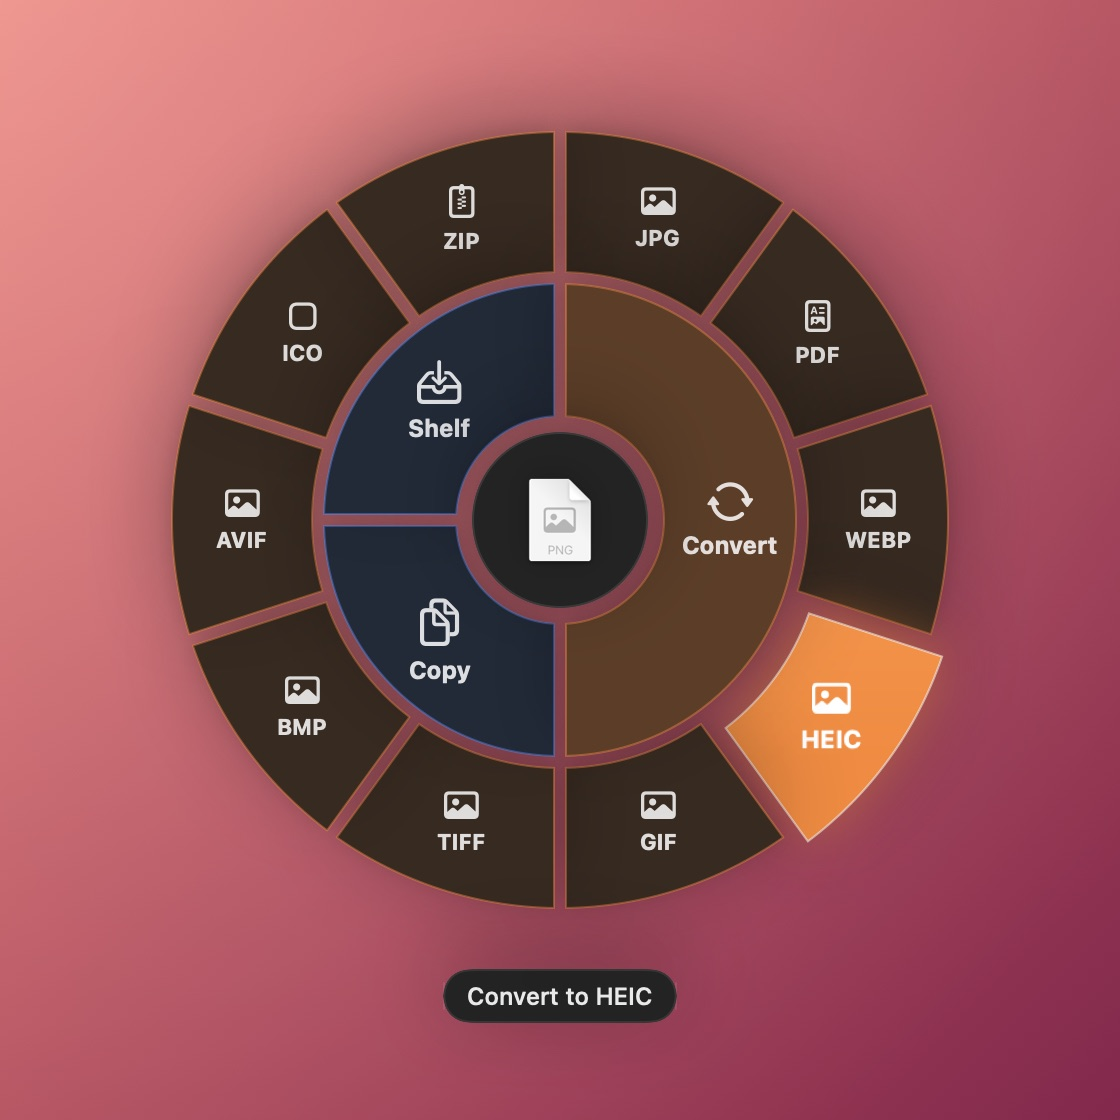
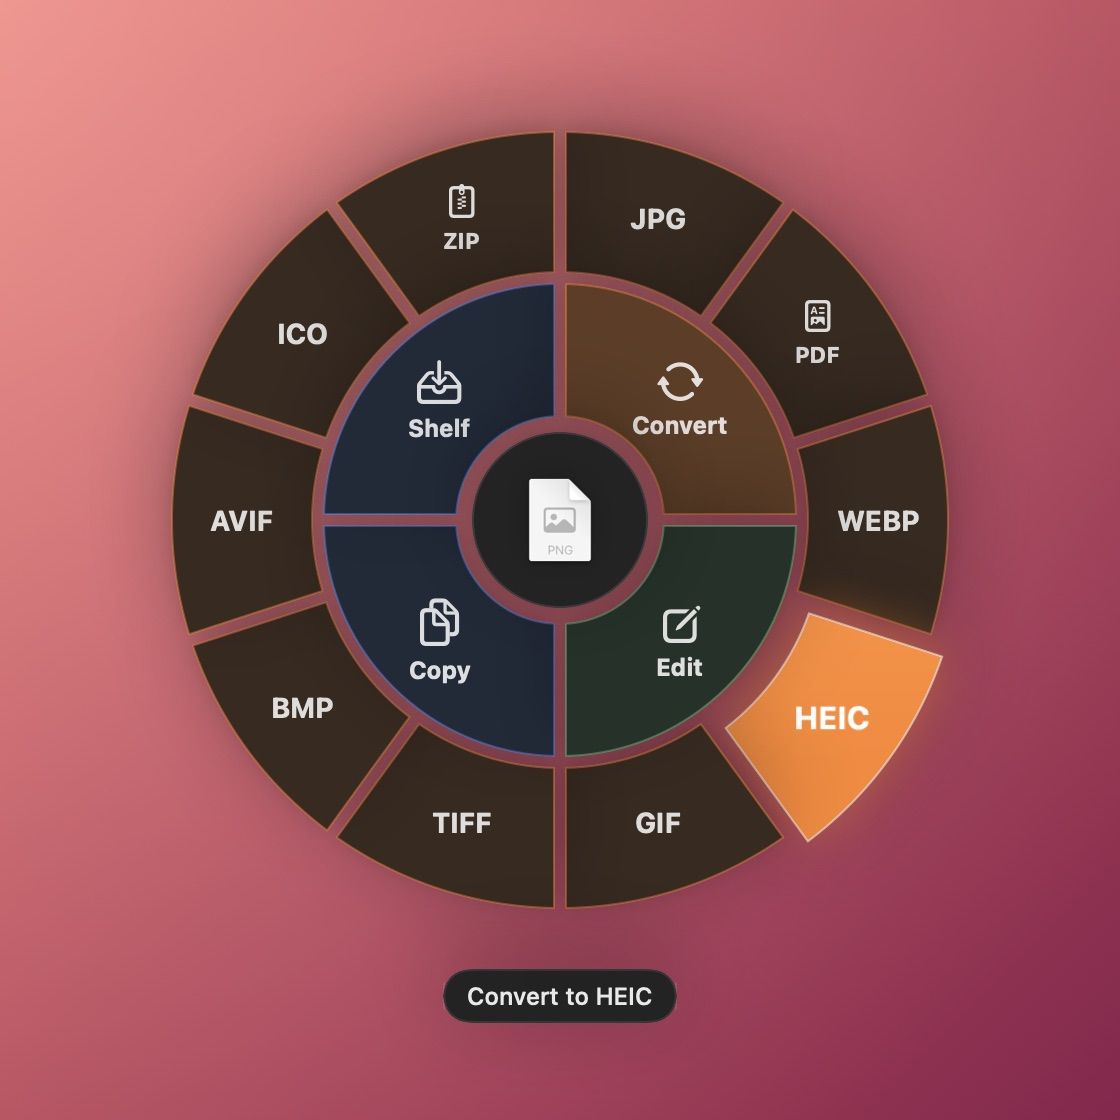
Screenshots for 1.2.0, 10-step shake slider, resizable Settings
- scripts/screenshots: new hero (Edit open), radial-edit, radial-merge,
  donate; Shelf with a selection; full-height Settings. README and
  README.vi use them.
- Shake sensitivity is a 1–10 slider on both platforms (old Easy/Normal/
  Firm map to 2/5/8).
- Settings windows are resizable and scroll, capped to the screen height.
- macOS Shelf: the title no longer wraps when the header is crowded.

diff --git a/scripts/screenshots.swift b/scripts/screenshots.swift
@@ -36,8 +36,17 @@ m2.expanded = .convert; m2.showAll = true; m2.hoveredSide = .convert; m2.hovered
 // Menu tròn: rê vào Copy
 let m3 = RadialModel(files: [sample("Report Q3.docx"), sample("Vacation photo.png")])
 m3.hoveredSide = .clipboard; m3.hoveredItem = 0
+// Menu tròn: nửa Chỉnh sửa của ảnh JPG, rê vào "< 1 MB"
+let m4 = RadialModel(files: [sample("Beach day.jpg")])
+m4.expanded = .edit; m4.hoveredSide = .edit
+m4.hoveredItem = m4.editItems.firstIndex { $0.target == .convert(.shrink) }
+// Menu tròn: nhiều file, Chỉnh sửa -> Gộp PDF
+let m5 = RadialModel(files: [sample("Beach day.jpg"), sample("Vacation photo.png"), sample("Screenshot.png")])
+m5.expanded = .edit; m5.hoveredSide = .edit; m5.hoveredItem = 0
 
-ShelfController.shared.model.add([sample("Vacation photo.png"), sample("Report Q3.docx"), sample("Budget 2026.xlsx"), sample("Pitch deck.pptx"), sample("Holiday.zip")])
+let shelfFiles = [sample("Vacation photo.png"), sample("Beach day.jpg"), sample("Report Q3.docx"), sample("Budget 2026.xlsx"), sample("Pitch deck.pptx"), sample("Holiday.zip")]
+ShelfController.shared.model.add(shelfFiles)
+ShelfController.shared.model.selection = [shelfFiles[0], shelfFiles[1]]   // đang chọn 2 file để kéo cùng lúc
 
 // Nền gradient cùng tông logo
 struct Backdrop<C: View>: View {
@@ -60,7 +69,7 @@ struct Hero: View {
                 Image(nsImage: NSApp.applicationIconImage).resizable().frame(width: 230, height: 230)
                     .shadow(color: .black.opacity(0.25), radius: 20, y: 8)
                 Text("Drag. Shake. Convert.").font(.system(size: 46, weight: .heavy, design: .rounded)).foregroundStyle(.white)
-                Text("A tiny menu that pops up right where you drag a file.\nConvert, extract, copy or shelve it in one move.")
+                Text("A tiny menu that pops up right where you drag a file.\nConvert, edit, copy or shelve it in one move.")
                     .font(.system(size: 21, weight: .medium, design: .rounded)).foregroundStyle(.white.opacity(0.88))
                 Text("macOS · Windows · Free & open source").font(.system(size: 17, weight: .semibold, design: .rounded))
                     .foregroundStyle(.white).padding(.horizontal, 14).padding(.vertical, 7)
@@ -77,12 +86,15 @@ func onBackdrop<V: View>(_ v: V) -> some View {
 }
 
 let steps: [(@escaping () -> Void) -> Void] = [
-    { n in snap("hero", Hero(model: m1), size: CGSize(width: 1280, height: 640), then: n) },
+    { n in snap("hero", Hero(model: m4), size: CGSize(width: 1280, height: 640), then: n) },
     { n in snap("radial-convert", onBackdrop(RadialMenuView(model: m1).frame(width: 440, height: 480)), size: CGSize(width: 560, height: 560), then: n) },
     { n in snap("radial-all-formats", onBackdrop(RadialMenuView(model: m2).frame(width: 440, height: 480)), size: CGSize(width: 560, height: 560), then: n) },
     { n in snap("radial-copy", onBackdrop(RadialMenuView(model: m3).frame(width: 440, height: 480)), size: CGSize(width: 560, height: 560), then: n) },
+    { n in snap("radial-edit", onBackdrop(RadialMenuView(model: m4).frame(width: 440, height: 480)), size: CGSize(width: 560, height: 560), then: n) },
+    { n in snap("radial-merge", onBackdrop(RadialMenuView(model: m5).frame(width: 440, height: 480)), size: CGSize(width: 560, height: 560), then: n) },
+    { n in snap("donate", onBackdrop(DonateView().background(Color(nsColor: .windowBackgroundColor), in: RoundedRectangle(cornerRadius: 14))), size: CGSize(width: 440, height: 680), then: n) },
     { n in snap("shelf", onBackdrop(ShelfView(model: ShelfController.shared.model, onClose: {}).fixedSize()), size: CGSize(width: 420, height: 440), then: n) },
-    { n in snap("settings", onBackdrop(SettingsView().frame(height: 1000).background(Color(nsColor: .windowBackgroundColor), in: RoundedRectangle(cornerRadius: 14))).frame(width: 540), size: CGSize(width: 540, height: 1080), then: n) },
+    { n in snap("settings", onBackdrop(SettingsView().frame(width: 460, height: 1100).background(Color(nsColor: .windowBackgroundColor), in: RoundedRectangle(cornerRadius: 14))).frame(width: 540), size: CGSize(width: 540, height: 1180), then: n) },
 ]
 func run(_ i: Int) { if i < steps.count { let step = steps[i]; step({ run(i + 1) }) } else { exit(0) } }
 DispatchQueue.main.async { run(0) }

diff --git a/Sources/SettingsWindow.swift b/Sources/SettingsWindow.swift
@@ -11,9 +11,12 @@ final class SettingsWindowController {
     func show() {
         if window == nil {
             let host = NSHostingView(rootView: SettingsView())
-            let w = NSWindow(contentRect: NSRect(x: 0, y: 0, width: 460, height: 700),
-                             styleMask: [.titled, .closable],
+            // Kéo đổi kích thước được; không cao hơn màn hình (máy màn nhỏ vẫn cuộn xem hết)
+            let maxH = (NSScreen.main?.visibleFrame.height ?? 800) - 60
+            let w = NSWindow(contentRect: NSRect(x: 0, y: 0, width: 460, height: min(700, maxH)),
+                             styleMask: [.titled, .closable, .resizable],
                              backing: .buffered, defer: false)
+            w.contentMinSize = NSSize(width: 420, height: 360)
             w.title = L("SATF Settings", "Cài đặt SATF")
             w.contentView = host
             w.isReleasedWhenClosed = false
@@ -29,6 +32,8 @@ final class SettingsWindowController {
 struct SettingsView: View {
     @ObservedObject private var settings = Settings.shared
     @State private var launchAtLogin = SMAppService.mainApp.status == .enabled
+    /// Chiều cao cửa sổ; ảnh chụp cho README dùng giá trị lớn hơn để thấy hết các mục
+    var height: CGFloat = 700
 
     var body: some View {
         Form {
@@ -68,12 +73,22 @@ struct SettingsView: View {
                 }
                 .disabled(!settings.shakeEnabled)
 
-                Picker(L("Sensitivity", "Độ nhạy"), selection: $settings.sensitivity) {
-                    ForEach(Sensitivity.allCases) { s in
-                        Text(s.label).tag(s)
+                // 10 mức: kéo sang trái = lắc nhẹ là mở, sang phải = phải lắc mạnh (đỡ mở nhầm)
+                VStack(alignment: .leading, spacing: 4) {
+                    HStack {
+                        Text(L("Sensitivity", "Độ nhạy"))
+                        Spacer()
+                        Text("\(settings.shakeLevel)/10").monospacedDigit().foregroundStyle(.secondary)
+                    }
+                    Slider(value: Binding(get: { Double(settings.shakeLevel) }, set: { settings.shakeLevel = Int($0.rounded()) }),
+                           in: Double(ShakeLevel.range.lowerBound)...Double(ShakeLevel.range.upperBound), step: 1) {
+                        EmptyView()
+                    } minimumValueLabel: {
+                        Text(L("Light", "Nhẹ")).font(.caption).foregroundStyle(.secondary)
+                    } maximumValueLabel: {
+                        Text(L("Firm", "Mạnh")).font(.caption).foregroundStyle(.secondary)
                     }
                 }
-                .pickerStyle(.segmented)
                 .disabled(!settings.shakeEnabled)
             } header: {
                 Text(L("Shake", "Lắc chuột"))
@@ -159,7 +174,7 @@ struct SettingsView: View {
             }
         }
         .formStyle(.grouped)
-        .frame(width: 460, height: 700)
+        .frame(minWidth: 420, idealWidth: 460, maxWidth: .infinity, minHeight: 360, idealHeight: height, maxHeight: .infinity)
     }
 }
 

diff --git a/Sources/Settings.swift b/Sources/Settings.swift
@@ -38,36 +38,14 @@ enum ModifierChoice: String, CaseIterable, Identifiable {
     }
 }
 
-enum Sensitivity: String, CaseIterable, Identifiable {
-    case easy, normal, hard
-
-    var id: String { rawValue }
-
-    var label: String {
-        switch self {
-        case .easy: return L("Easy", "Nhạy")
-        case .normal: return L("Normal", "Vừa")
-        case .hard: return L("Firm", "Khó")
-        }
-    }
-
-    /// Mỗi nhịp lắc phải đi xa tối thiểu (point)
-    var minSwing: CGFloat {
-        switch self {
-        case .easy: return 25
-        case .normal: return 35
-        case .hard: return 50
-        }
-    }
-
+/// Độ nhạy lắc: 1 = nhạy nhất (lắc nhẹ là mở menu), 10 = phải lắc mạnh. Cùng công thức với bản Windows.
+enum ShakeLevel {
+    static let range = 1...10
+    static let `default` = 5
+    /// Mỗi nhịp lắc phải đi xa tối thiểu (point): 20 … 56
+    static func minSwing(_ level: Int) -> CGFloat { CGFloat(20 + (level - 1) * 4) }
     /// Số lần đổi chiều cần có
-    var reversals: Int {
-        switch self {
-        case .easy: return 3
-        case .normal: return 4
-        case .hard: return 5
-        }
-    }
+    static func reversals(_ level: Int) -> Int { level <= 3 ? 3 : level <= 7 ? 4 : 5 }
 }
 
 /// Mức nén ảnh của nút "Nén ảnh"
@@ -122,8 +100,8 @@ final class Settings: ObservableObject {
     @Published var shakeModifier: ModifierChoice {
         didSet { defaults.set(shakeModifier.rawValue, forKey: "shakeModifier") }
     }
-    @Published var sensitivity: Sensitivity {
-        didSet { defaults.set(sensitivity.rawValue, forKey: "sensitivity") }
+    @Published var shakeLevel: Int {
+        didSet { defaults.set(shakeLevel, forKey: "shakeLevel") }
     }
     @Published var hotKeyEnabled: Bool {
         didSet {
@@ -171,7 +149,16 @@ final class Settings: ObservableObject {
             shakeModifier = .shift
         }
 
-        sensitivity = Sensitivity(rawValue: defaults.string(forKey: "sensitivity") ?? "") ?? .normal
+        if let level = defaults.object(forKey: "shakeLevel") as? Int {
+            shakeLevel = min(max(level, ShakeLevel.range.lowerBound), ShakeLevel.range.upperBound)
+        } else {
+            // Bản cũ chỉ có 3 mức Nhạy / Vừa / Khó
+            switch defaults.string(forKey: "sensitivity") {
+            case "easy": shakeLevel = 2
+            case "hard": shakeLevel = 8
+            default: shakeLevel = ShakeLevel.default
+            }
+        }
         hotKeyEnabled = defaults.object(forKey: "hotKeyEnabled") as? Bool ?? true
         compressLevel = CompressLevel(rawValue: defaults.string(forKey: "compressLevel") ?? "") ?? .balanced
         targetSizeKB = defaults.object(forKey: "targetSizeKB") as? Int ?? 1000

diff --git a/Sources/ShakeDetector.swift b/Sources/ShakeDetector.swift
@@ -53,7 +53,7 @@ final class ShakeDetector {
         guard !firedThisHold else { return }
 
         let settings = Settings.shared
-        let minSwing = settings.sensitivity.minSwing
+        let minSwing = ShakeLevel.minSwing(settings.shakeLevel)
         let x = NSEvent.mouseLocation.x
         let now = ProcessInfo.processInfo.systemUptime
         let dx = x - extremeX
@@ -76,7 +76,7 @@ final class ShakeDetector {
             reversals.append(now)
             reversals.removeAll { now - $0 > window }
 
-            if reversals.count >= settings.sensitivity.reversals {
+            if reversals.count >= ShakeLevel.reversals(settings.shakeLevel) {
                 reversals.removeAll()
                 if let flag = settings.shakeModifier.flag, !NSEvent.modifierFlags.contains(flag) { return }
                 firedThisHold = true

diff --git a/Sources/Shelf.swift b/Sources/Shelf.swift
@@ -217,6 +217,8 @@ struct ShelfView: View {
                 .foregroundStyle(Color.accentColor)
             Text(L("Shelf", "Khay"))
                 .font(.system(size: 13, weight: .semibold))
+                .lineLimit(1)
+                .fixedSize()   // không bị rớt dòng khi thanh tiêu đề chật
             if !model.files.isEmpty {
                 Text("\(model.files.count)")
                     .font(.system(size: 10, weight: .bold))

diff --git a/Windows/SettingsWindow.cs b/Windows/SettingsWindow.cs
@@ -33,7 +33,6 @@ public class SettingsWindow : Window
         Title = L("SATF Settings", "Cài đặt SATF");
         Width = 440;
         SizeToContent = SizeToContent.Height;
-        ResizeMode = ResizeMode.NoResize;
         WindowStartupLocation = WindowStartupLocation.CenterScreen;
         Icon = UI.AppIcon;
 
@@ -63,7 +62,15 @@ public class SettingsWindow : Window
         // Lắc chuột
         var shake = Check(L("Shake while dragging to open the menu", "Lắc file đang kéo để mở menu"), _s.ShakeEnabled, v => _s.ShakeEnabled = v);
         var modifier = Combo(new[] { L("None", "Không cần"), "Shift", "Ctrl", "Alt" }, (int)_s.ShakeModifier, i => _s.ShakeModifier = (ShakeModifier)i);
-        var sensitivity = Combo(new[] { L("Easy", "Nhạy"), L("Normal", "Vừa"), L("Firm", "Khó") }, (int)_s.Sensitivity, i => _s.Sensitivity = (Sensitivity)i);
+        // 10 mức: kéo sang trái = lắc nhẹ là mở, sang phải = phải lắc mạnh (đỡ mở nhầm)
+        var levelText = new TextBlock { Text = $"{_s.Level}/10", Foreground = Brushes.Gray, MinWidth = 34, TextAlignment = TextAlignment.Right, VerticalAlignment = VerticalAlignment.Center };
+        var slider = new Slider { Minimum = 1, Maximum = 10, Value = _s.Level, TickFrequency = 1, IsSnapToTickEnabled = true, TickPlacement = System.Windows.Controls.Primitives.TickPlacement.BottomRight, Width = 150, VerticalAlignment = VerticalAlignment.Center };
+        slider.ValueChanged += (s, e) => { _s.ShakeLevel = (int)slider.Value; levelText.Text = $"{_s.ShakeLevel}/10"; _s.Save(); };
+        var sensitivity = new StackPanel { Orientation = Orientation.Horizontal };
+        sensitivity.Children.Add(new TextBlock { Text = L("Light", "Nhẹ"), FontSize = 11, Foreground = Brushes.Gray, VerticalAlignment = VerticalAlignment.Center, Margin = new Thickness(0, 0, 6, 0) });
+        sensitivity.Children.Add(slider);
+        sensitivity.Children.Add(new TextBlock { Text = L("Firm", "Mạnh"), FontSize = 11, Foreground = Brushes.Gray, VerticalAlignment = VerticalAlignment.Center, Margin = new Thickness(6, 0, 0, 0) });
+        sensitivity.Children.Add(levelText);
         root.Children.Add(Section(L("Shake", "Lắc chuột"),
             shake,
             Row(L("Hold key", "Giữ kèm phím"), modifier),
@@ -118,7 +125,12 @@ public class SettingsWindow : Window
         root.Children.Add(Section(L("General", "Hệ thống"),
             Check(L("Start with Windows", "Mở cùng Windows"), AppSettings.LaunchAtStartup, v => AppSettings.LaunchAtStartup = v)));
 
-        Content = root;
+        // Cuộn được và kéo đổi kích thước được: màn hình thấp vẫn xem hết các mục
+        MaxHeight = SystemParameters.WorkArea.Height - 40;
+        MinWidth = 400;
+        MinHeight = 320;
+        ResizeMode = ResizeMode.CanResize;
+        Content = new ScrollViewer { Content = root, VerticalScrollBarVisibility = ScrollBarVisibility.Auto, HorizontalScrollBarVisibility = ScrollBarVisibility.Disabled };
         PreviewKeyDown += OnPreviewKeyDown;
         Closed += (s, e) => StopRecording();
         App.Instance.HotKeyFailed += ShowHotKeyError;

diff --git a/Windows/Settings.cs b/Windows/Settings.cs
@@ -27,7 +27,10 @@ public class AppSettings
     public string Compressor { get; set; } = Archivers.Builtin;
     public bool ShakeEnabled { get; set; } = true;
     public ShakeModifier ShakeModifier { get; set; } = ShakeModifier.Shift;
+    /// Chỉ còn để đọc cài đặt của bản cũ (3 mức). Bản mới dùng ShakeLevel.
     public Sensitivity Sensitivity { get; set; } = Sensitivity.Normal;
+    /// Độ nhạy lắc 1…10: 1 = nhạy nhất, 10 = phải lắc mạnh. 0 = chưa chọn (lấy từ Sensitivity cũ).
+    public int ShakeLevel { get; set; }
     public bool HotKeyEnabled { get; set; } = true;
     public uint HotKeyMods { get; set; } = NativeMethods.MOD_ALT | NativeMethods.MOD_SHIFT;
     public uint HotKeyVk { get; set; } = NativeMethods.VK_SPACE;
@@ -58,8 +61,10 @@ public class AppSettings
     private static string FilePath => Path.Combine(Tools.Dir, "settings.json");
 
     /// Mỗi nhịp lắc phải đi xa tối thiểu (pixel), và số lần đổi chiều cần có
-    public int MinSwing => Sensitivity switch { Sensitivity.Easy => 25, Sensitivity.Hard => 50, _ => 35 };
-    public int Reversals => Sensitivity switch { Sensitivity.Easy => 3, Sensitivity.Hard => 5, _ => 4 };
+    /// Cùng công thức với bản Mac
+    public int Level => ShakeLevel is >= 1 and <= 10 ? ShakeLevel : Sensitivity switch { Sensitivity.Easy => 2, Sensitivity.Hard => 8, _ => 5 };
+    public int MinSwing => 20 + (Level - 1) * 4;
+    public int Reversals => Level <= 3 ? 3 : Level <= 7 ? 4 : 5;
 
     public string ModifierLabel => ShakeModifier switch
     {

diff --git a/README.md b/README.md
@@ -88,14 +88,23 @@ All versions are on the [Releases page](https://github.com/tran-minh-khoi/SATF/r
   </tr>
   <tr>
     <td align="center"><b>Copy</b> (bottom) or <b>Shelf</b> (top).</td>
-    <td align="center"><b>Shelf:</b> collect files, drag them out later.</td>
+    <td align="center"><b>Shelf:</b> select several files and drag them out together.</td>
+  </tr>
+  <tr>
+    <td width="50%"><img src="docs/images/radial-edit.jpg" alt="Edit half of the radial menu"></td>
+    <td width="50%"><img src="docs/images/radial-merge.jpg" alt="Editing several images at once"></td>
+  </tr>
+  <tr>
+    <td align="center"><b>Edit:</b> rotate, resize, compress, squeeze under 1 MB, clean info.</td>
+    <td align="center"><b>Several files:</b> merge into one PDF or stack into one image.</td>
   </tr>
 </table>
 
 1. **Start dragging** any file or several files.
 2. **Shake** it left and right while holding <kbd>Shift</kbd>, or press the shortcut.
 3. **Drop** it on:
-   - **Convert →** a format. More than six choices? Hover **More** to open the full circle.
+   - **Convert →** (top right) a format. More than six choices? Hover **More** to open the full circle.
+   - **Edit →** (bottom right) an edit: rotate, resize, compress, under 1 MB, clean info, merge PDF, stack. The original is never changed.
    - **Copy** puts the file on the clipboard.
    - **Shelf** keeps it in a floating tray for later.
 4. Changed your mind? Press <kbd>Esc</kbd>, click outside, or just drop the file somewhere else.
@@ -151,7 +160,8 @@ Have another archive app? SATF supports **The Unarchiver, Keka, BetterZip, WinZi
 <p align="center"><img src="docs/images/settings.jpg" alt="SATF Settings" width="420"></p>
 
 - **Language:** English or Tiếng Việt.
-- **Shake:** turn it on or off, choose a key to hold (none, Shift, Option/Alt, Control, Command) and how firm the shake should be.
+- **Shake:** turn it on or off, choose a key to hold (none, Shift, Option/Alt, Control, Command) and how firm the shake should be (a 1–10 slider).
+- **Images:** compress level, the "under … MB" target (200 KB–5 MB) and the resize size (1080–3840px).
 - **Keyboard shortcut:** click and press a new combination.
 - **Archives:** which app extracts and which app makes ZIPs.
 - **Add-ons:** see, download or remove them.
@@ -239,7 +249,7 @@ Pull requests, translations and ideas are welcome. Please read [CONTRIBUTING.md]
 
 SATF is free and open source. If it saves you time, you can buy me a coffee. Scan the VietQR code below with any Vietnamese banking app, or open **Support SATF…** from the menu bar / tray menu. A ⭐ on GitHub helps a lot too.
 
-<p align="center"><img src="assets/donate-vietqr.png" alt="VietQR · MB Bank · Tran Minh Khoi" width="200"></p>
+<p align="center"><img src="docs/images/donate.jpg" alt="Support SATF window" width="300"></p>
 
 ## License
 

diff --git a/README.vi.md b/README.vi.md
@@ -65,12 +65,17 @@ Không tải lên mạng, không cần tài khoản, không quảng cáo. Mọi 
     <td width="50%"><img src="docs/images/radial-copy.jpg" alt="Nửa copy"></td>
     <td width="50%"><img src="docs/images/shelf.jpg" alt="Khay"></td>
   </tr>
+  <tr>
+    <td width="50%"><img src="docs/images/radial-edit.jpg" alt="Nửa chỉnh sửa"></td>
+    <td width="50%"><img src="docs/images/radial-merge.jpg" alt="Sửa nhiều ảnh cùng lúc"></td>
+  </tr>
 </table>
 
 1. **Kéo** một hoặc nhiều file.
 2. **Giữ Shift và lắc nhẹ** qua lại, hoặc bấm phím tắt.
 3. **Thả** file vào:
-   - **Chuyển đổi →** định dạng. Nhiều hơn 6 lựa chọn thì rê vào **Thêm** để bung cả vòng.
+   - **Chuyển đổi →** (trên phải) định dạng. Nhiều hơn 6 lựa chọn thì rê vào **Thêm** để bung cả vòng.
+   - **Chỉnh sửa →** (dưới phải) thao tác: xoay, thu nhỏ, nén, ép dưới 1 MB, xoá EXIF, gộp PDF, ghép ảnh. File gốc luôn giữ nguyên.
    - **Copy** (ô dưới): copy file.
    - **Khay** (ô trên): cất vào khay để dùng sau.
 4. Đổi ý? Bấm <kbd>Esc</kbd>, bấm ra ngoài, hoặc thả file ra chỗ khác.
@@ -121,7 +126,7 @@ Chi tiết xem [README tiếng Anh](README.md#build-from-source) và [CONTRIBUTI
 
 SATF miễn phí và mã nguồn mở. Nếu app giúp bạn tiết kiệm thời gian, bạn có thể mời mình một ly cà phê: quét mã VietQR bên dưới bằng app ngân hàng bất kỳ, hoặc mở **Ủng hộ SATF…** trong menu của app. Tặng một ⭐ trên GitHub cũng là ủng hộ rất lớn.
 
-<p align="center"><img src="assets/donate-vietqr.png" alt="VietQR · MB Bank · Tran Minh Khoi" width="200"></p>
+<p align="center"><img src="docs/images/donate.jpg" alt="Cửa sổ Ủng hộ SATF" width="300"></p>
 
 ## Giấy phép
 

diff --git a/CHANGELOG.md b/CHANGELOG.md
@@ -15,6 +15,8 @@ All notable changes to SATF are listed here. Versions follow [Semantic Versionin
   - **Stack**: several images into one tall image.
 - **Rotate PDF** (all pages, 90°).
 - **Settings → Images**: compress level, target size and resize size.
+- **Shake sensitivity** is now a 1–10 slider instead of three choices. Your old choice carries over.
+- The **Settings** window can be resized and scrolls, so it fits small screens.
 - **Shelf**: click, Ctrl/⌘-click and Shift-click to select, Ctrl+A/⌘A to select all, Delete to remove, Esc to deselect. Drag one selected file to take the whole selection, or use the drag handle to take everything. Double-click opens a file, right-click shows Open / Show in Finder or Explorer / Remove.
 - **Support SATF** window with a VietQR code, opened from the name at the top of the menu bar / tray menu.
 
